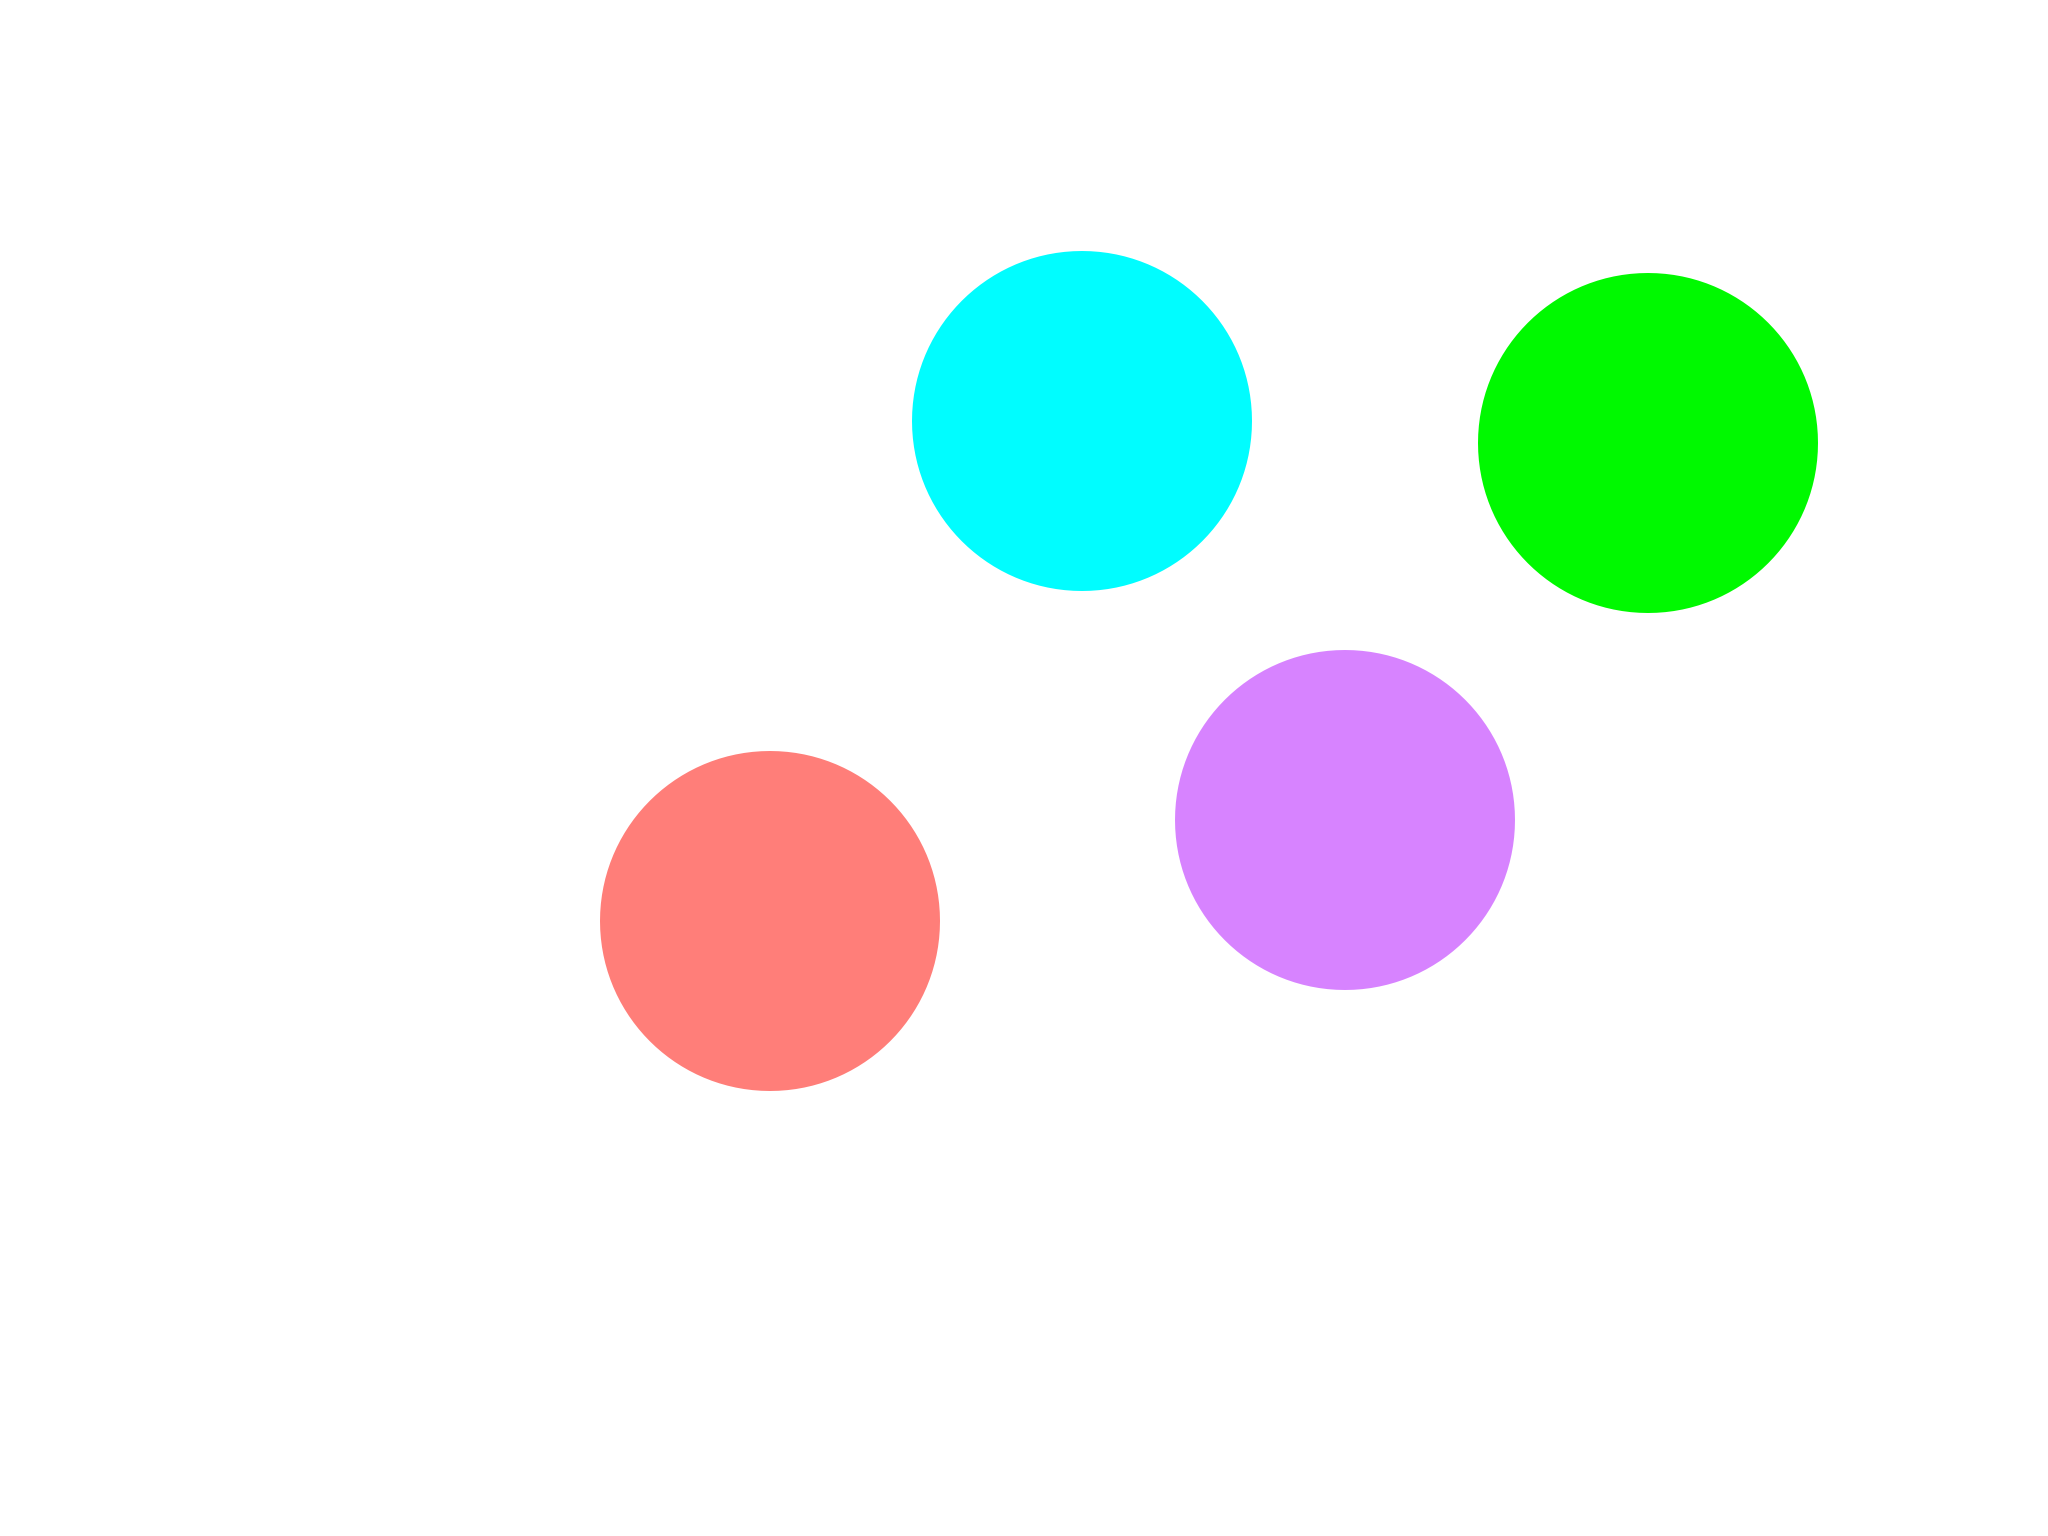
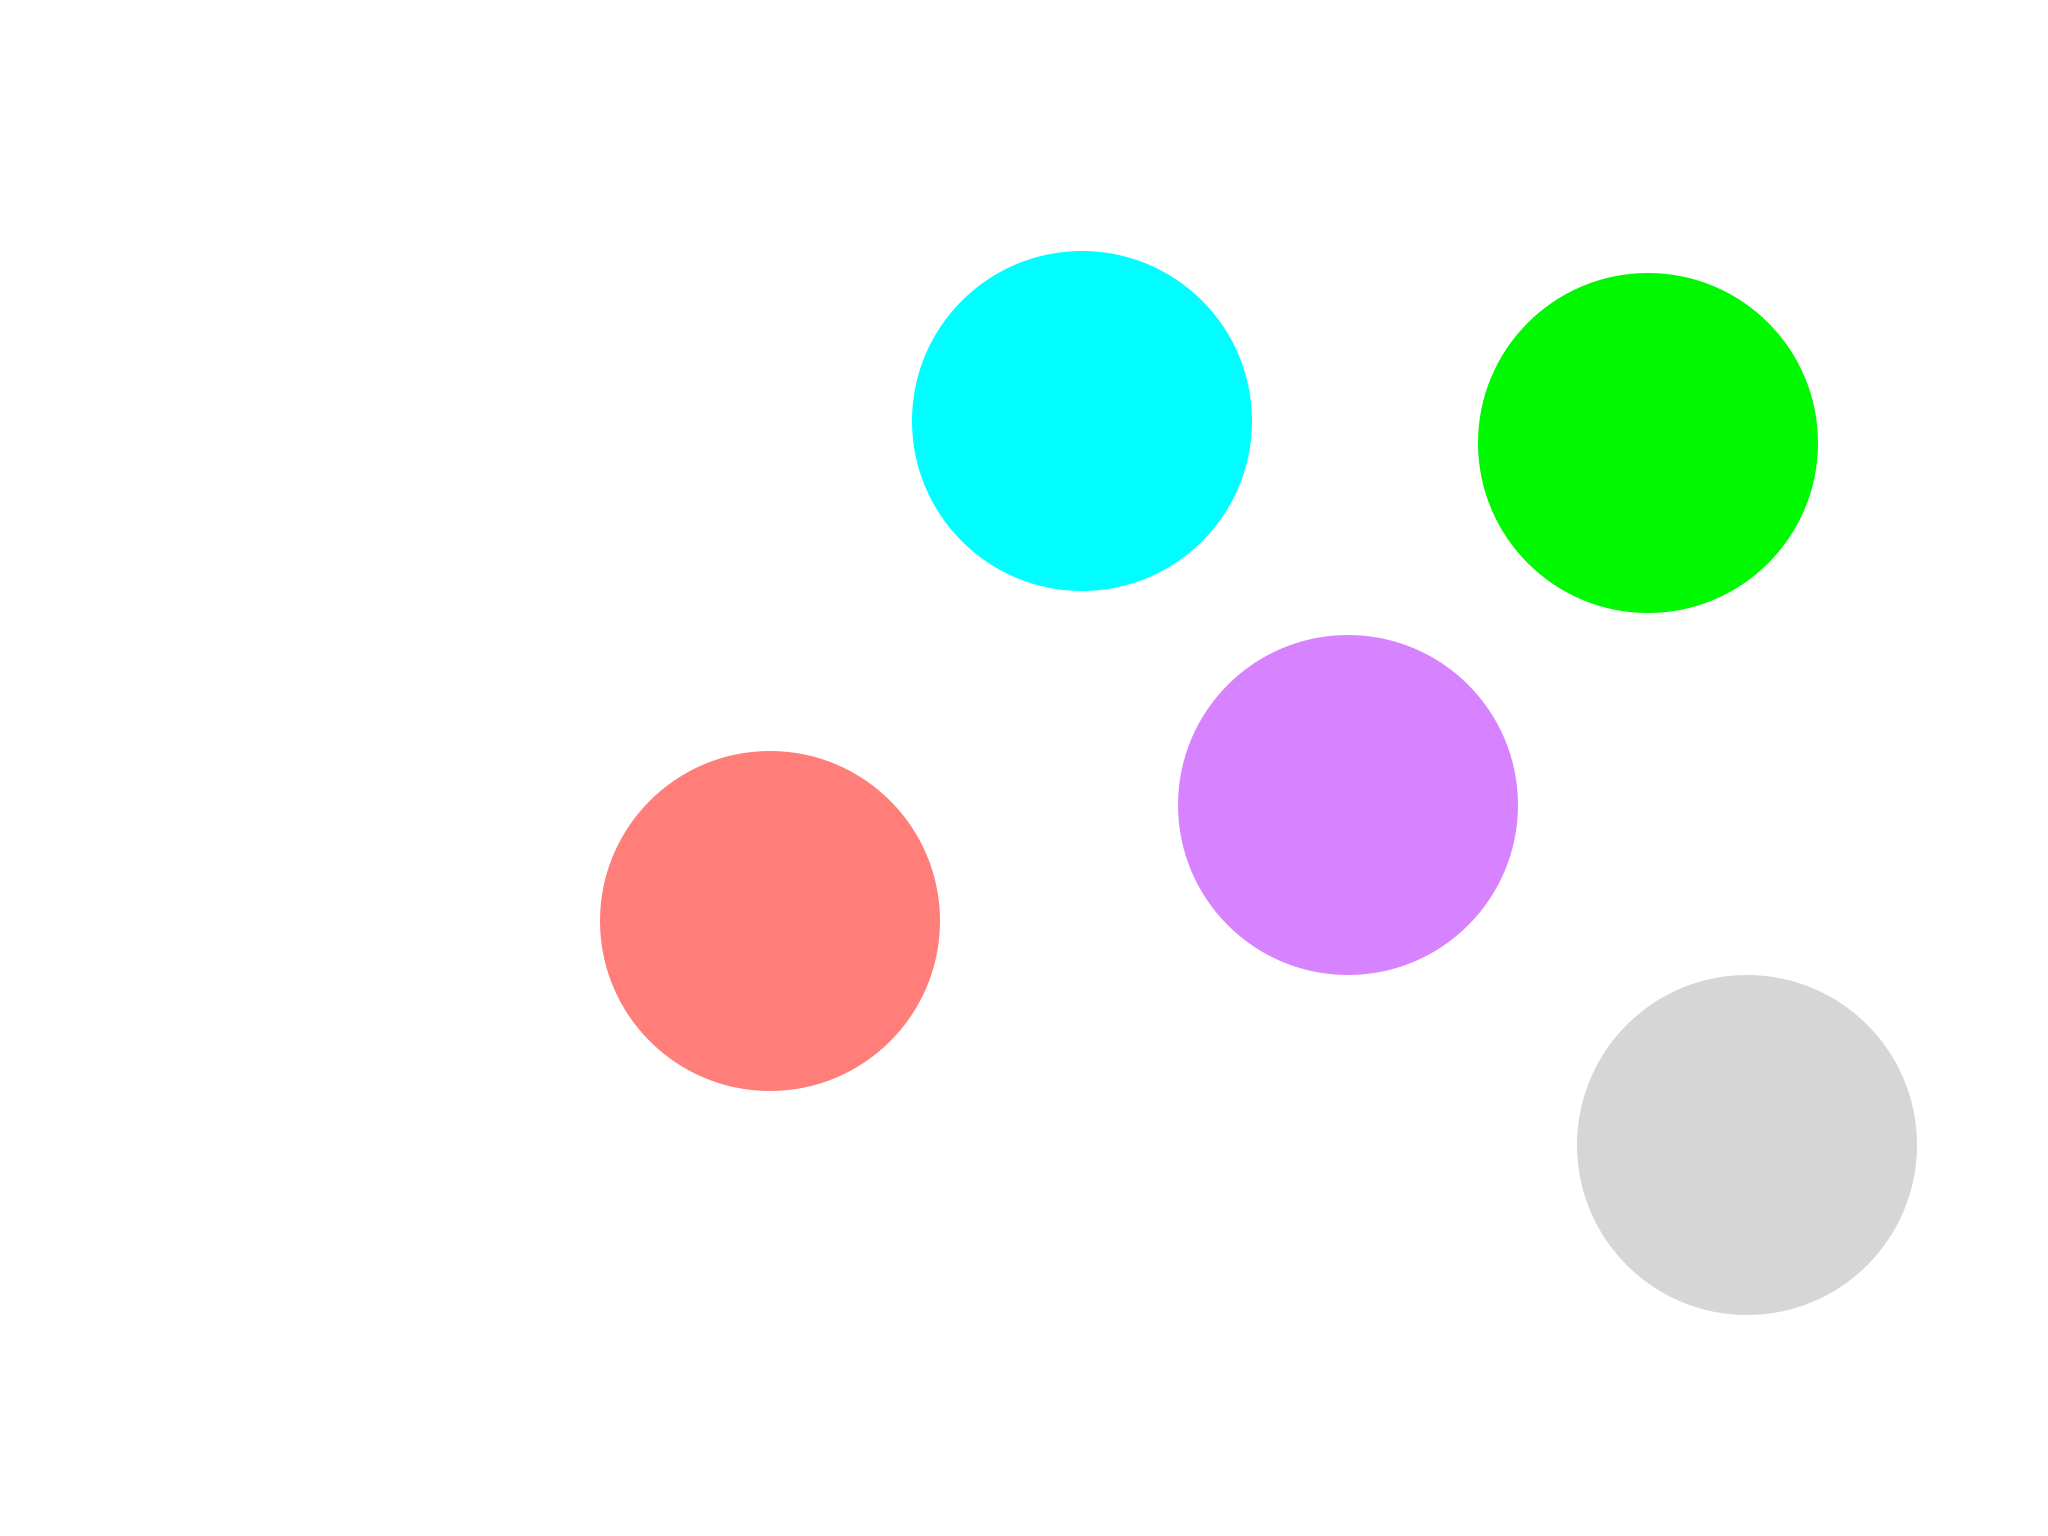
Begin adding physics. Bubble gravity can be turned on and off. Bubbles rotate around center circle. Center circle has reasonable rotation.

diff --git a/Assets/Scripts/Bubble.cs b/Assets/Scripts/Bubble.cs
@@ -4,16 +4,18 @@ using System;
 public class Bubble : MonoBehaviour {
 	public enum BubbleColor {Blue, Green, Red, Purple};
 	private int numBubbleColors;
-	private static Sprite[] sprites;
+	private static Sprite[] bubbleSprites;
 	private const string bubbleSpriteFile = "bubbles";
 
 	private BubbleColor color;
+	public bool grouped = true;
 	
 	void Start () {
 		numBubbleColors = Enum.GetNames(typeof(BubbleColor)).Length;
 		color = (BubbleColor) Enum.ToObject(typeof(BubbleColor), UnityEngine.Random.Range (0, numBubbleColors));
-		sprites = Resources.LoadAll<Sprite> (bubbleSpriteFile);
-		GetComponent<SpriteRenderer> ().sprite = sprites[(int) color];
+		bubbleSprites = Resources.LoadAll<Sprite> (bubbleSpriteFile);
+		GetComponent<SpriteRenderer> ().sprite = bubbleSprites[(int) color];
+		// SwapGravity();
 	}
 	
 	void Update () {
@@ -22,5 +24,13 @@ public class Bubble : MonoBehaviour {
 
 	public BubbleColor GetColor() {
 		return color;
+	}
+
+	private void SwapGravity() {
+		if (grouped) {
+			GetComponent<Rigidbody2D>().constraints = RigidbodyConstraints2D.FreezePositionY;
+		} else {
+			GetComponent<Rigidbody2D>().constraints = RigidbodyConstraints2D.None;
+		}
 	}
 }

diff --git a/Assets/Scripts/Game.cs b/Assets/Scripts/Game.cs
@@ -1,0 +1,14 @@
+using System.Collections;
+using System.Collections.Generic;
+using UnityEngine;
+
+public class Game : MonoBehaviour {
+
+	void Start () {
+		GetComponent<Rigidbody2D>().constraints = RigidbodyConstraints2D.FreezeRotation;
+	}
+	
+	void Update () {
+		
+	}
+}
